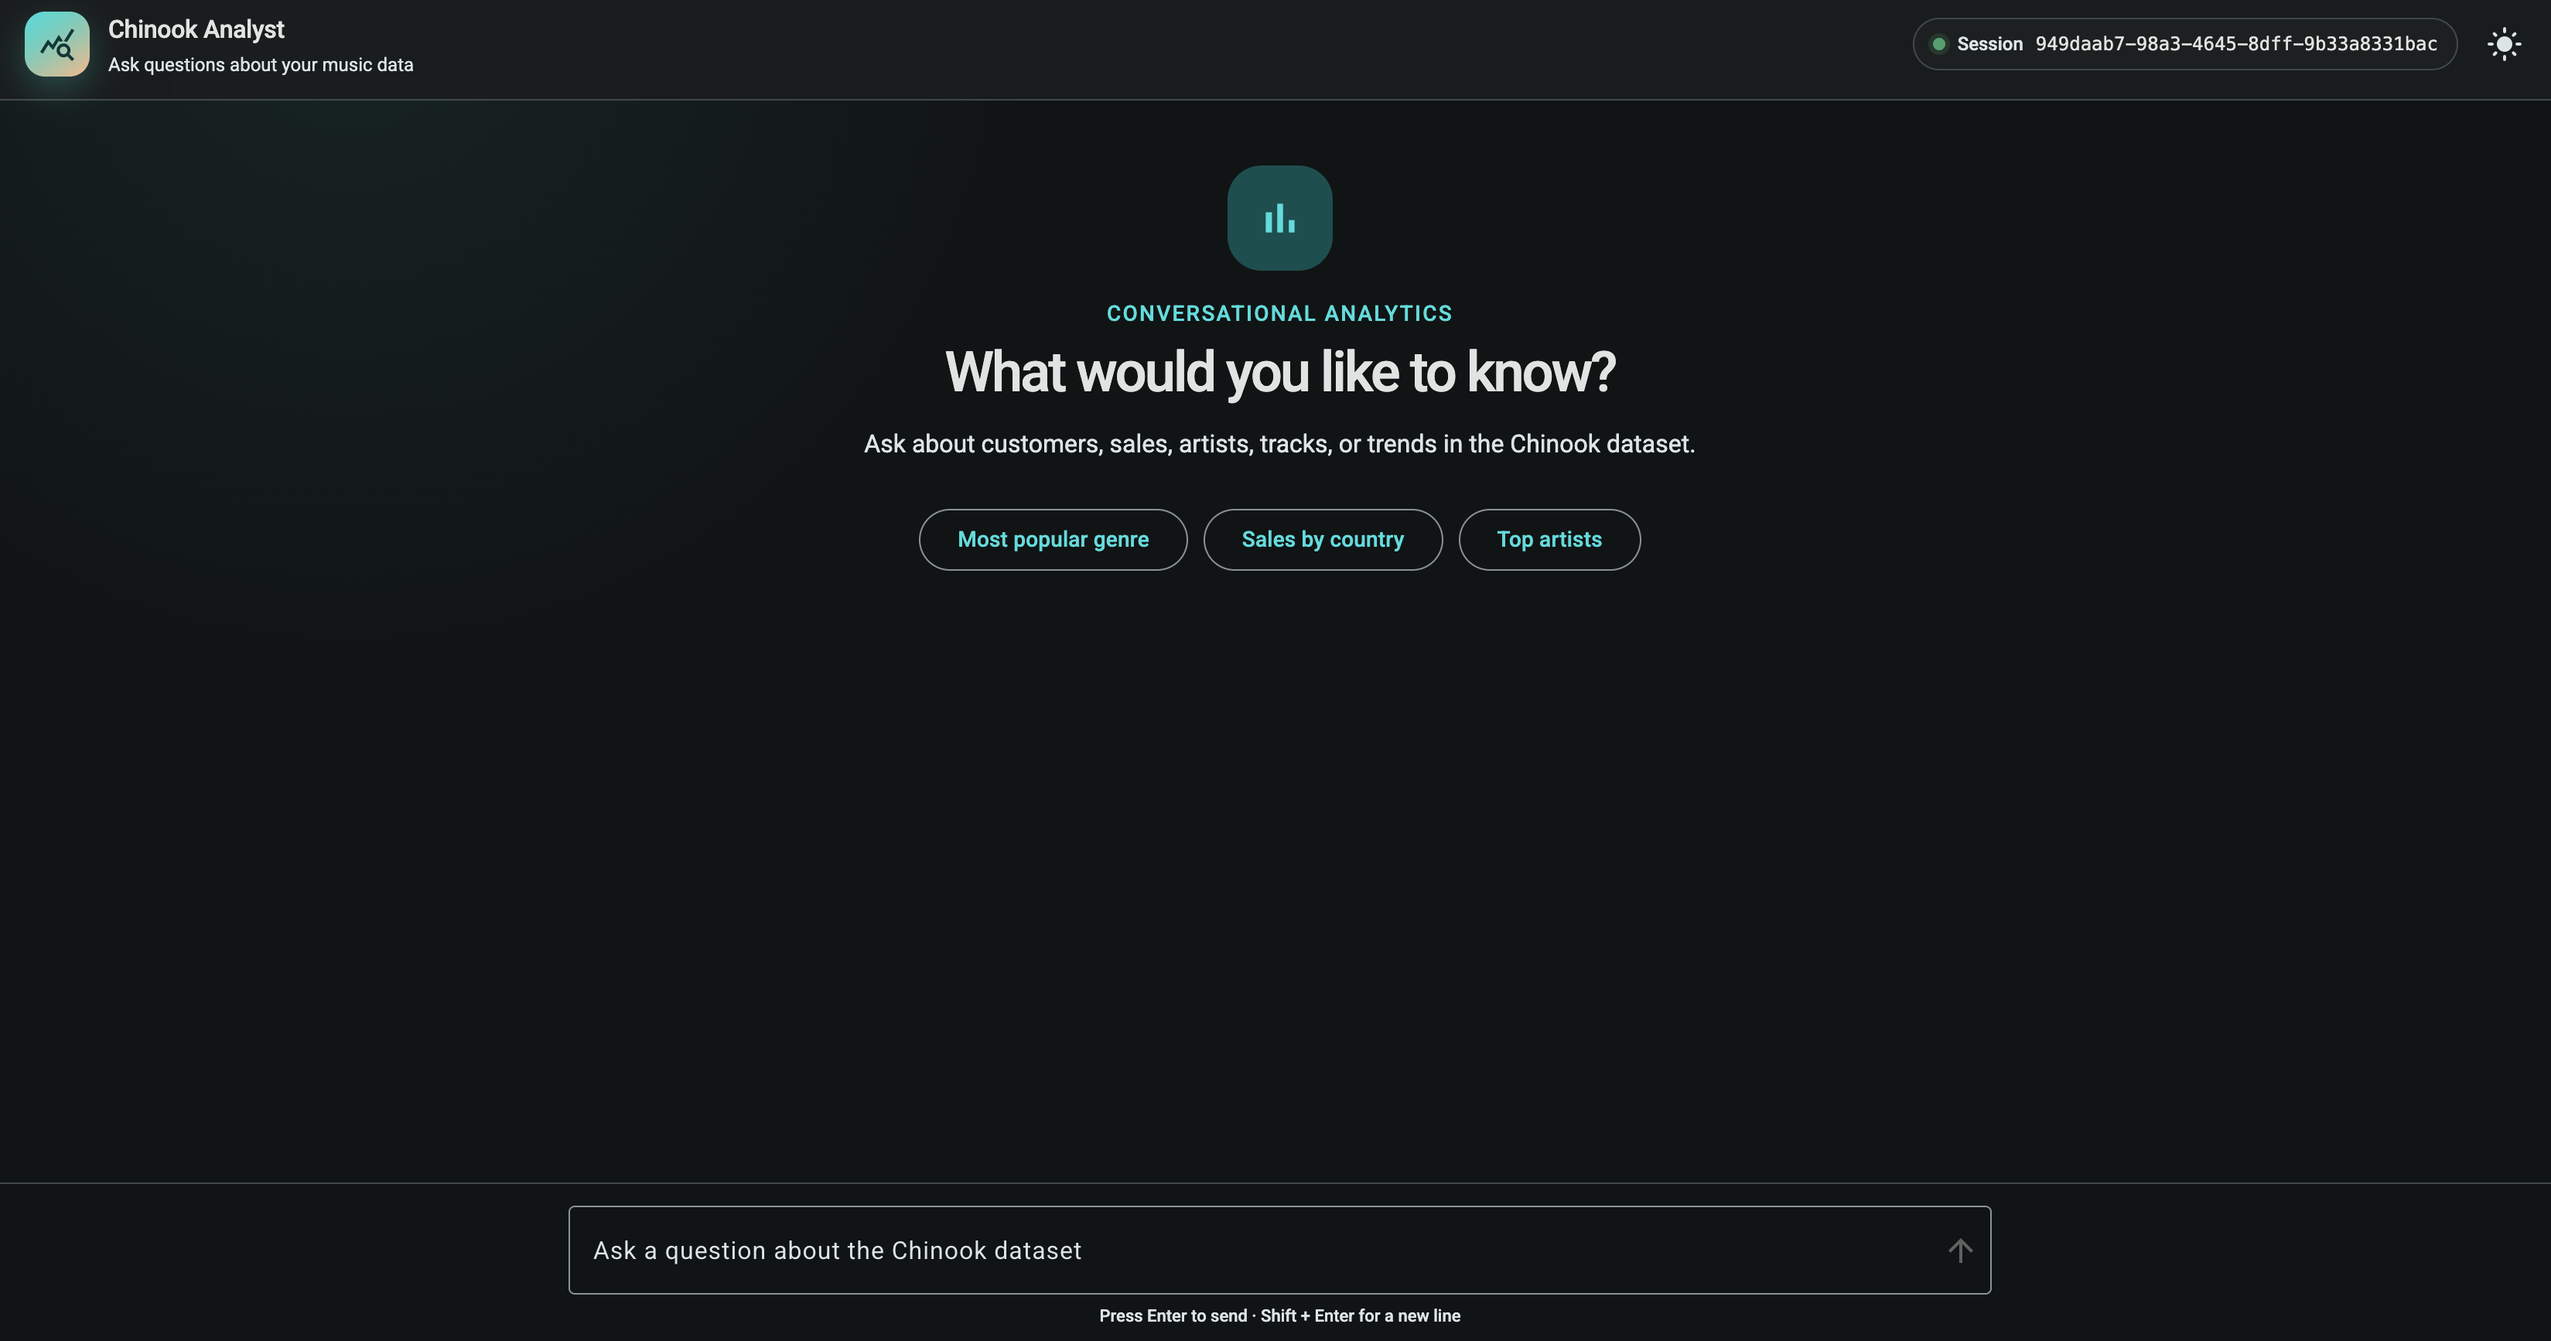
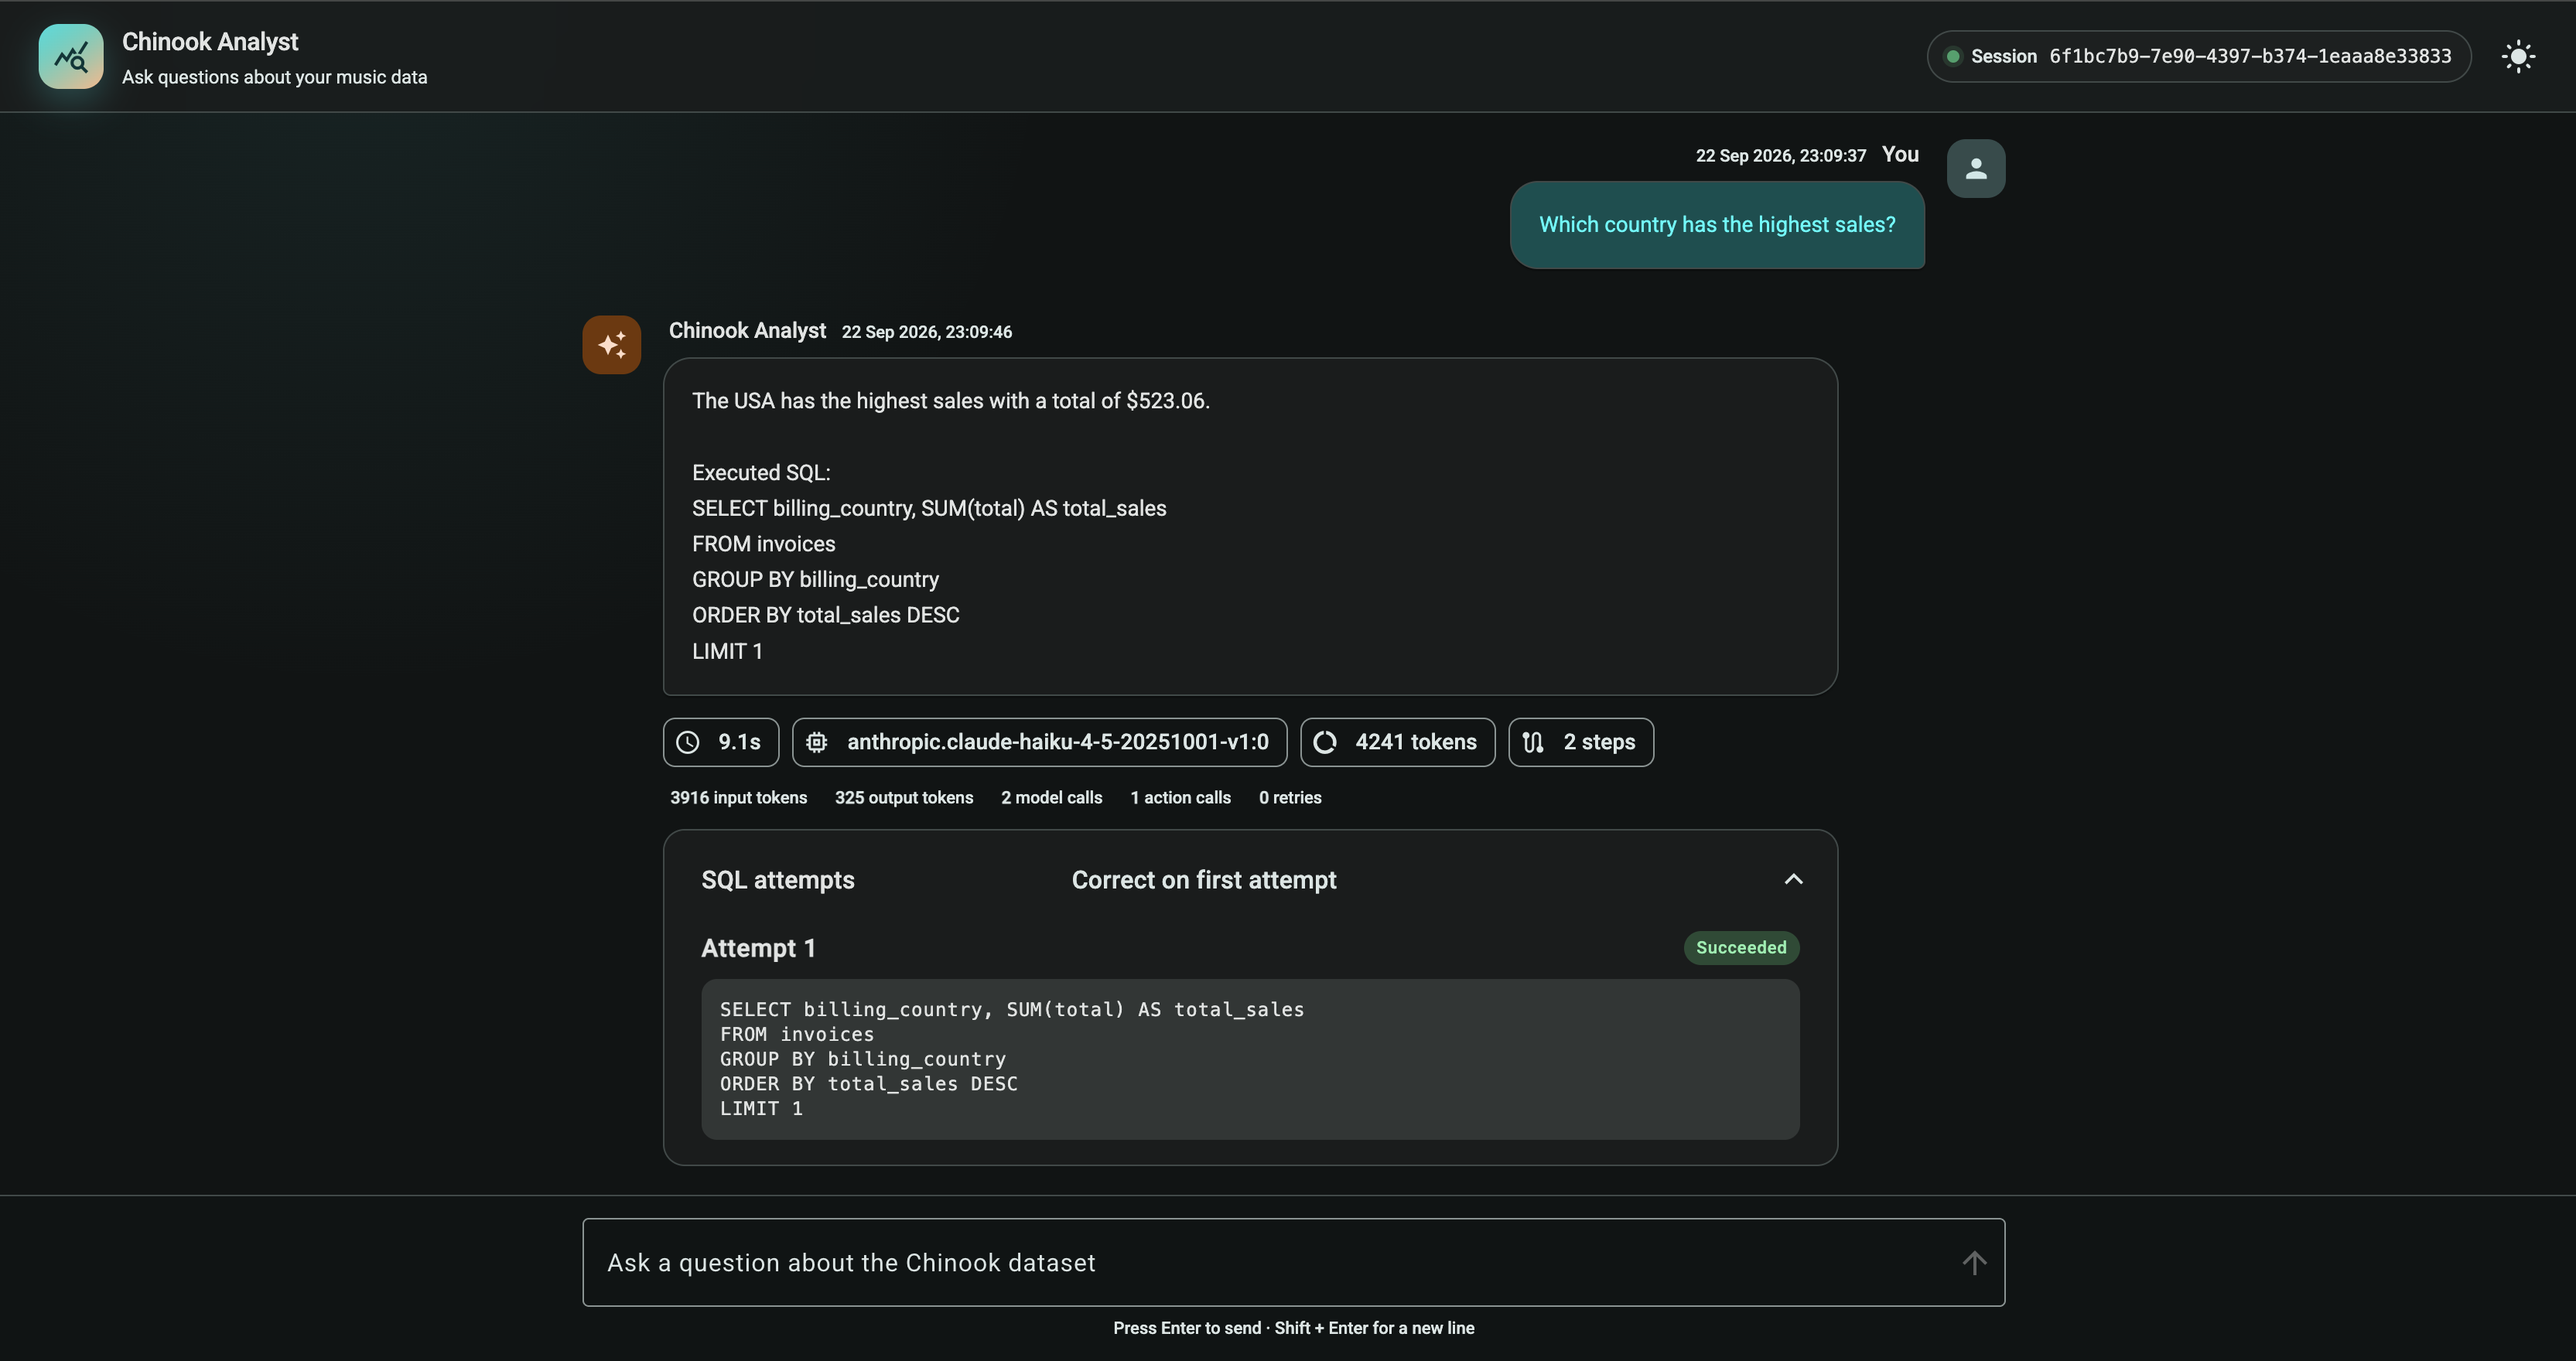
addressed professors comments

diff --git a/docs/thesis/chapters/methodology.tex b/docs/thesis/chapters/methodology.tex
@@ -4,17 +4,27 @@
 
 The following chapter describes the methodology and experimental system used to evaluate
 an agentic Text-to-SQL system.
-The study compared Amazon Nova Lite v1.0 and Claude Haiku 4.5 using a shared benchmark, assessing returned results and SQL execution trajectories.
+The study compared Amazon Nova Lite v1.0 \citep{awsNovaLite} and Claude Haiku
+4.5 \citep{anthropicClaudeHaiku45} using a shared benchmark. The model condition
+was the independent variable, while final result
+correctness was the primary outcome variable. Trajectory measures further
+distinguished direct success, recovery after an error and unresolved failure.
 
 \subsection{Study design and evaluation scope}
 \label{sec:study-design}
 
 The study was designed around two large language model (LLM) conditions,
-each deployed in Amazon Bedrock, and evaluated using
-the same project-specific benchmark and application workflow.
+each deployed in Amazon Bedrock. Bedrock is a fully managed AWS service that
+provides access to foundation models. Bedrock Agents orchestrate
+interactions between a model, software applications and user conversations
+\citep{awsBedrockOverview,awsBedrockAgents}. Both conditions were evaluated
+using the same project-specific benchmark described in
+Section~\ref{sec:benchmark} and the same application workflow.
 
-Each model completed the same benchmark twice, producing four complete runs
-and supporting per-question comparisons between models and between repetitions.
+Each model completed the same benchmark twice, producing four complete runs.
+The repeated runs were used to compare results and trajectories, including
+whether failures occurred on the same questions or shifted between runs.
+They were not used to establish statistical significance.
 
 For every execution, both final answer and step-by-step SQL attempts were examined
 to track whether the model succeeded immediately, failed completely, or managed to recover from an execution error.
@@ -34,6 +44,8 @@ Each run was collected automatically and included 160 standalone questions and
 40 additional primary turns covering clarification, multi-turn interaction and
 safety scenarios. Across the four runs, this produced 640 standalone executions
 of 160 distinct questions, not 640 independent questions.
+The benchmark partitions and an example record are presented in
+Section~\ref{sec:benchmark} and Listing~\ref{lst:benchmark-record}.
 Safety responses were reviewed manually after collection.
 The evaluation did not assess general natural-language answer quality, usefulness
 to users, cost or scalability.
@@ -52,9 +64,11 @@ It is also complex enough to support joins, aggregations and subqueries.
 For this project, the Chinook Parquet version developed by \citet{chinook-parquet}
 was selected for its columnar storage format. AWS Athena can read the columns required
 by a query rather than all columns, reducing the data scanned for suitable queries
-\citep{awsColumnar}. Performance and cost savings were not measured in this study.
-The files were stored in Amazon S3 and
-registered through the AWS Glue Data Catalog for querying with Athena.
+\citep{apacheParquetDocs,awsColumnar}. Performance and cost savings were not
+measured in this study. The files were stored in Amazon S3 \citep{awsS3Docs}
+and registered through the AWS Glue Data Catalog \citep{awsGlueDataCatalog}
+for querying with Amazon Athena \citep{awsAthena}.
+The deployed Athena workgroup used engine version 3 \citep{awsAthenaEngineV3}.
 
 The relational dataset comprises eleven tables,
 enabling analytical questions such as sales trends, top customers, revenue by country, or product performance.
@@ -73,7 +87,8 @@ Chinook-Bench-200 was developed for this study and stored as a versioned JSON
 specification for automated experimental runs.
 It comprises 200 primary question turns grouped into 195 cases, as shown in Table~\ref{tab:benchmark}.
 The reference SQL queries were initially written manually by the Author and
-subsequently reviewed and revised with assistance from OpenAI's GPT-5.6 Sol model.
+subsequently reviewed and revised with assistance from OpenAI's GPT-5.6 Sol model
+\citep{openaiGPT56Sol}.
 Afterwards, each query was executed manually in AWS Athena to check its returned results.
 
 Each interactive case contains two authored turns, giving ten turns in total for the five interactive cases.
@@ -105,21 +120,25 @@ Total & 195 & 200 & \\
 
 The Spider benchmark \citep{yu2018spider} and its categorisation of SQL queries by complexity
 were used as references when designing Chinook-Bench-200.
-However, it is not an extension of Spider because it does not test cross-domain generalisation
-or multi-database scenarios, and it has its own questions and difficulty strata.
+However, Chinook-Bench-200 is not an extension of Spider.
+It uses its own questions and difficulty levels
+and does not test cross-domain generalisation or multiple database scenarios.
 Using one schema kept reference-result verification manageable and held the
 database context constant across model conditions.
 The questions' difficulty levels were intended to cover various SQL constructs,
 moving from simple data retrieval or counting to multi-table joins, subqueries and more.
 
-Each benchmark record defines an executable question or turn, specifying a natural-language request, a golden
-SQL query and a result comparison contract. Ambiguous cases provide the query
+Each benchmark record defines an executable question or turn, specifying a
+natural-language request, a reference SQL query stored in the
+\texttt{gold\_sql} field and a result comparison contract.
+Ambiguous cases provide the query
 and contract for the resolved request, while safety cases specify the expected
-behaviour without golden SQL. The contract describes how to compare a candidate
+behaviour without a reference SQL query. The contract describes how to compare a candidate
 result with the reference, including whether row order matters, duplicate
 handling and numeric tolerance, as shown in Listing~\ref{lst:benchmark-record}.
 
-\begin{lstlisting}[caption={Example Chinook-Bench-200 record with a question, golden SQL query and result comparison contract (Source: Author, 2026).},label={lst:benchmark-record},captionpos=b]
+\noindent\begin{minipage}{\linewidth}
+\begin{lstlisting}[caption={Example Chinook-Bench-200 record with a question, reference SQL query and result comparison contract (Source: Author, 2026).},label={lst:benchmark-record},captionpos=b]
 {
     "id": "CB200-E001",
     "difficulty": "easy",
@@ -141,6 +160,7 @@ handling and numeric tolerance, as shown in Listing~\ref{lst:benchmark-record}.
     }
 }
 \end{lstlisting}
+\end{minipage}
 
 Building on the work of \citet{dong2025practiq}, which examines ambiguous and
 unanswerable requests in conversational Text-to-SQL,
@@ -149,7 +169,7 @@ Each ambiguous case specifies a clarification target and one fixed reply.
 This scripted policy extends the benchmark beyond single-turn requests without
 requiring a human participant during collection.
 
-Reference results were generated by executing the golden SQL queries against the Chinook dataset
+Reference results were generated by executing the reference SQL queries against the Chinook dataset
 and saving the outputs in a structured JSON format for automated comparison with candidate results.
 There were 190 reference queries: 160 standalone, 20 resolved ambiguity and 10
 interactive-turn queries. Interactive reference placeholders were resolved from
@@ -180,7 +200,7 @@ managed services spanning across four specialized layers:
     using the selected model, Nova Lite or Claude Haiku 4.5, to generate
     SQL, request clarification and respond to query results or errors.
 
-    \item Query action layer: an AWS Lambda function that submitted
+    \item Query action layer: an AWS Lambda function \citep{awsLambdaDocs} that submitted
     generated SQL to Athena and returned results or execution errors
     to the agent.
 
@@ -205,14 +225,19 @@ runner, Node.js backend and offline evaluator ran locally.
 A TypeScript runner loaded the benchmark, submitted requests to a Node.js
 backend and saved the evidence for offline evaluation. The backend captured
 responses and traces in a SQLite database for inspection.
-An Angular chat interface supported manual interaction with the agent through
-the same backend; experimental runs bypassed the user interface (UI).
+An Angular chat interface was developed for demonstration and manual interaction
+with the agent through the same backend; experimental runs bypassed the user
+interface (UI). The UI was not used to collect or evaluate experimental data.
+It provided an illustrative and interactive way of presenting the
+pipeline's capabilities in a user-friendly form.
 The interface is illustrated in Figure~\ref{fig:chat-interface}.
 
 \begin{figure}[H]
     \centering
     \includegraphics[width=\textwidth]{../assets/chat-interface.png}
-    \caption{Angular interactive chat application (Source: Author, 2026).}
+    \caption{Angular interface showing a natural-language request, the agent's
+    response, the executed SQL and the recorded trace details
+    (Source: Author, 2026).}
     \label{fig:chat-interface}
 \end{figure}
 

diff --git a/docs/thesis/figures/experiment-pipeline.tex b/docs/thesis/figures/experiment-pipeline.tex
@@ -77,14 +77,16 @@
   \fill[white] (-2.1,3.2) rectangle (18.1,-6.8);
 \end{scope}
 \node[font=\Large\bfseries] at (8,2.8) {System architecture and experimental flow};
+\path[draw=accent,line width=1pt,rounded corners=6pt]
+  (2.15,2.25) rectangle (17.85,-3.2);
 \foreach \x/\col/\title in {0/blue/Local application,4/green/Inference and orchestration,8/orange/Query action,12/purple/Query engine,16/olive/Data and metadata} {
   \path[draw=\col!65,fill=\col!3,rounded corners=5pt,line width=.7pt]
     (\x-1.65,1.9) rectangle (\x+1.65,-3.0);
   \node[text=\col,font=\small\bfseries,align=center,text width=3cm] at (\x,1.4) {\title};
 }
-\node[font=\scriptsize,text=blue] at (0,2.1) {LOCAL};
-\draw[draw=border,line width=.6pt] (2.35,2.05)--(17.65,2.05);
-\node[fill=white,font=\scriptsize,text=ink,inner sep=3pt] at (10,2.05) {AWS MANAGED SERVICES};
+\node[font=\footnotesize\bfseries,text=blue] at (0,2.1) {LOCAL};
+\node[fill=white,font=\footnotesize\bfseries,text=accent,inner xsep=5pt,inner ysep=2pt]
+  at (10,2.25) {AWS MANAGED SERVICES};
 \node (backend) at (0,.15) {\serviceicon{blue}{server}};
 \node (agent) at (4,.15) {\serviceicon{green}{agent}};
 \node (lambda) at (8,.15) {\serviceicon{orange}{function}};
